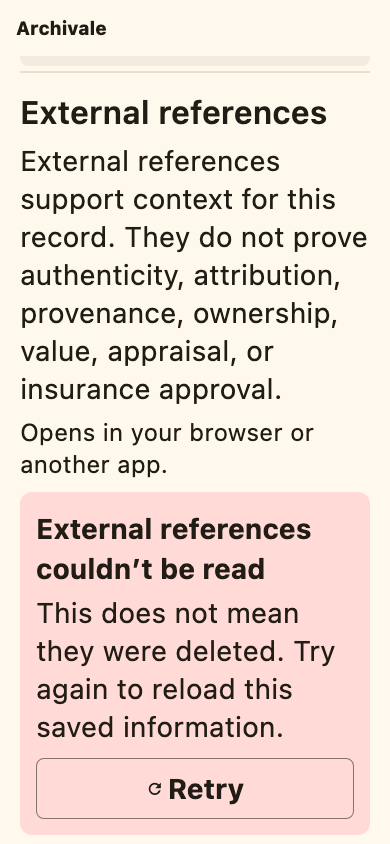
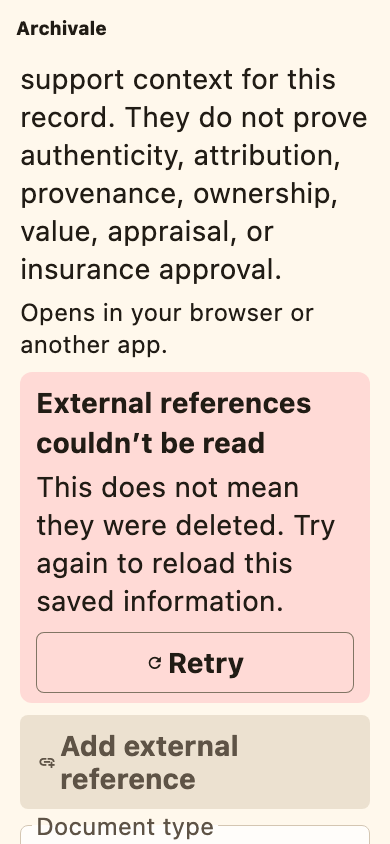
test: cover external reference reload failures

diff --git a/test/external_references_panel_test.dart b/test/external_references_panel_test.dart
@@ -10,6 +10,7 @@ import 'package:my_art_collection/app/app.dart';
 import 'package:my_art_collection/app/app_dependencies.dart';
 import 'package:my_art_collection/app/app_routes.dart';
 import 'package:my_art_collection/app/external_references/external_reference_launch_gateway.dart';
+import 'package:my_art_collection/app/external_references/external_references_panel.dart';
 import 'package:my_art_collection/app/intake/artwork_image_picker.dart';
 import 'package:my_art_collection/app/storage/artwork_record.dart';
 import 'package:my_art_collection/app/storage/external_reference.dart';
@@ -195,6 +196,23 @@ void main() {
         isNull,
       );
       expect(tester.takeException(), isNull);
+      final addFinder = find.widgetWithText(
+        FilledButton,
+        'Add external reference',
+      );
+      await tester.drag(find.byType(Scrollable).first, const Offset(0, -120));
+      await tester.pumpAndSettle();
+      expect(
+        tester.getRect(find.text('External references couldn’t be read')).top,
+        greaterThanOrEqualTo(56),
+      );
+      expect(
+        tester
+            .getRect(find.byKey(const ValueKey('retry-external-references')))
+            .bottom,
+        lessThanOrEqualTo(844),
+      );
+      expect(tester.getRect(addFinder).bottom, lessThanOrEqualTo(844));
       await _capture(
         tester,
         boundaryKey,
@@ -235,6 +253,131 @@ void main() {
       expect(tester.takeException(), isNull);
     },
   );
+
+  testWidgets(
+    'post-save read failure is consumed and stays locked through recovery',
+    (tester) async {
+      final fixture = (await tester.runAsync(_UiFixture.create))!;
+      addTearDown(() async => tester.runAsync(fixture.dispose));
+      await _pumpDocuments(tester, fixture);
+      await tester.runAsync(fixture.enablePostSaveReadFailure);
+
+      await tester.tap(
+        find.widgetWithText(FilledButton, 'Add external reference'),
+      );
+      await _pumpLiveData(tester);
+      await tester.enterText(
+        find.byKey(const ValueKey('external-reference-url-field')),
+        'https://gallery.example/post-save',
+      );
+      await tester.tap(find.widgetWithText(FilledButton, 'Save'));
+      await _pumpLiveData(tester);
+      await _scrollToPanel(tester);
+
+      expect(find.text('External references couldn’t be read'), findsOneWidget);
+      expect(find.text('No external references yet.'), findsNothing);
+      expect(find.byTooltip('Edit external reference'), findsNothing);
+      expect(
+        tester
+            .widget<FilledButton>(
+              find.widgetWithText(FilledButton, 'Add external reference'),
+            )
+            .onPressed,
+        isNull,
+      );
+      expect(tester.takeException(), isNull);
+
+      await tester.runAsync(fixture.repairPostSaveReadFailure);
+      await tester.tap(find.byKey(const ValueKey('retry-external-references')));
+      await _pumpLiveData(tester);
+      await _scrollToPanel(tester);
+
+      expect(find.text('External references couldn’t be read'), findsNothing);
+      expect(find.text('gallery.example'), findsOneWidget);
+      expect(find.byTooltip('Edit external reference'), findsOneWidget);
+      expect(
+        tester
+            .widget<FilledButton>(
+              find.widgetWithText(FilledButton, 'Add external reference'),
+            )
+            .onPressed,
+        isNotNull,
+      );
+      expect(tester.takeException(), isNull);
+    },
+  );
+
+  testWidgets('artwork id change read failure is consumed and retry recovers', (
+    tester,
+  ) async {
+    const secondArtworkId = 'external-reference-artwork-two';
+    final fixture = (await tester.runAsync(_UiFixture.create))!;
+    addTearDown(() async => tester.runAsync(fixture.dispose));
+    await tester.runAsync(() async {
+      await fixture.createArtwork(secondArtworkId);
+      await fixture.addManual(
+        'artwork-change',
+        label: 'Changed artwork reference',
+        targetArtworkId: secondArtworkId,
+      );
+      await fixture.corruptReference('artwork-change');
+    });
+
+    await _pumpExternalReferencesPanel(
+      tester,
+      fixture,
+      artworkId: _UiFixture.artworkId,
+    );
+    expect(find.text('No external references yet.'), findsOneWidget);
+    expect(
+      tester
+          .widget<FilledButton>(
+            find.widgetWithText(FilledButton, 'Add external reference'),
+          )
+          .onPressed,
+      isNotNull,
+    );
+
+    await _pumpExternalReferencesPanel(
+      tester,
+      fixture,
+      artworkId: secondArtworkId,
+    );
+    expect(find.text('External references couldn’t be read'), findsOneWidget);
+    expect(find.text('No external references yet.'), findsNothing);
+    expect(find.byTooltip('Edit external reference'), findsNothing);
+    expect(
+      tester
+          .widget<FilledButton>(
+            find.widgetWithText(FilledButton, 'Add external reference'),
+          )
+          .onPressed,
+      isNull,
+    );
+    expect(tester.takeException(), isNull);
+
+    await tester.runAsync(
+      () => fixture.repairReference(
+        'artwork-change',
+        DateTime.utc(2026, 7, 13, 8, 'artwork-change'.length),
+      ),
+    );
+    await tester.tap(find.byKey(const ValueKey('retry-external-references')));
+    await _pumpLiveData(tester);
+
+    expect(find.text('External references couldn’t be read'), findsNothing);
+    expect(find.text('Changed artwork reference'), findsOneWidget);
+    expect(find.byTooltip('Edit external reference'), findsOneWidget);
+    expect(
+      tester
+          .widget<FilledButton>(
+            find.widgetWithText(FilledButton, 'Add external reference'),
+          )
+          .onPressed,
+      isNotNull,
+    );
+    expect(tester.takeException(), isNull);
+  });
 
   testWidgets(
     'suggestion semantics, confirmation and reorder controls are deterministic',
@@ -640,6 +783,29 @@ Future<GlobalKey> _pumpDocuments(
   return boundaryKey;
 }
 
+Future<void> _pumpExternalReferencesPanel(
+  WidgetTester tester,
+  _UiFixture fixture, {
+  required String artworkId,
+}) async {
+  await tester.pumpWidget(
+    AppDependencyScope(
+      dependencies: fixture.dependencies(),
+      child: MaterialApp(
+        home: Scaffold(
+          body: SingleChildScrollView(
+            child: ExternalReferencesPanel(
+              key: const ValueKey('artwork-change-panel'),
+              artworkId: artworkId,
+            ),
+          ),
+        ),
+      ),
+    ),
+  );
+  await _pumpLiveData(tester);
+}
+
 Future<void> _scrollToPanel(WidgetTester tester) async {
   final panel = find.byKey(const ValueKey('external-references-panel'));
   for (var attempt = 0; attempt < 30 && panel.evaluate().isEmpty; attempt++) {
@@ -766,16 +932,64 @@ class _UiFixture {
         externalReferenceLaunchGateway: gateway,
       );
 
-  Future<void> addManual(String id, {required String? label}) async {
+  Future<void> addManual(
+    String id, {
+    required String? label,
+    String? targetArtworkId,
+  }) async {
     await repository.addManualExternalReference(
       referenceId: id,
-      artworkId: artworkId,
+      artworkId: targetArtworkId ?? artworkId,
       type: ExternalReferenceType.galleryOrArtist,
       label: label,
       url: 'https://example.com/$id',
       transactionTime: DateTime.utc(2026, 7, 13, 8, id.length),
     );
   }
+
+  Future<void> createArtwork(String id) => repository.create(
+    ArtworkRecord(
+      id: id,
+      recordState: ArtworkRecordState.verifiedByYou,
+      createdAt: DateTime.utc(2026, 7, 13),
+      updatedAt: DateTime.utc(2026, 7, 13),
+      fields: const {},
+    ),
+  );
+
+  Future<void> enablePostSaveReadFailure() => database.execute('''
+    CREATE TRIGGER issue_224_corrupt_external_reference_after_insert
+    AFTER INSERT ON external_references
+    BEGIN
+      UPDATE external_references
+      SET updated_at = '2026-02-30T00:00:00.000Z'
+      WHERE reference_id = NEW.reference_id;
+    END
+  ''');
+
+  Future<void> repairPostSaveReadFailure() async {
+    await database.execute(
+      'DROP TRIGGER issue_224_corrupt_external_reference_after_insert',
+    );
+    await database.execute(
+      'UPDATE external_references SET updated_at = created_at',
+    );
+  }
+
+  Future<void> corruptReference(String id) => database.update(
+    'external_references',
+    {'updated_at': '2026-02-30T00:00:00.000Z'},
+    where: 'reference_id = ?',
+    whereArgs: [id],
+  );
+
+  Future<void> repairReference(String id, DateTime updatedAt) =>
+      database.update(
+        'external_references',
+        {'updated_at': updatedAt.toIso8601String()},
+        where: 'reference_id = ?',
+        whereArgs: [id],
+      );
 
   Future<void> addSuggestion(String id, {required String? label}) async {
     await repository.saveExternalReferenceSuggestion(

diff --git a/lib/app/external_references/external_references_panel.dart b/lib/app/external_references/external_references_panel.dart
@@ -51,7 +51,14 @@ class _ExternalReferencesPanelState extends State<ExternalReferencesPanel> {
 
   Future<void> _reload({FocusNode? restoreFocus}) async {
     final future = _startRead();
-    await future;
+    try {
+      await future;
+    } catch (_) {
+      // FutureBuilder owns the visible read-integrity error state. Consume the
+      // companion await so ignored lifecycle and post-save reloads do not
+      // surface the same failure as an unhandled asynchronous exception.
+      return;
+    }
     if (mounted && restoreFocus != null) {
       _restoreFocusWhenReady(restoreFocus);
     }
@@ -375,7 +382,7 @@ class _ExternalReferenceReadError extends StatelessWidget {
           borderRadius: BorderRadius.circular(12),
         ),
         child: Padding(
-          padding: const EdgeInsets.all(16),
+          padding: const EdgeInsets.symmetric(horizontal: 16, vertical: 10),
           child: Column(
             crossAxisAlignment: CrossAxisAlignment.start,
             children: [